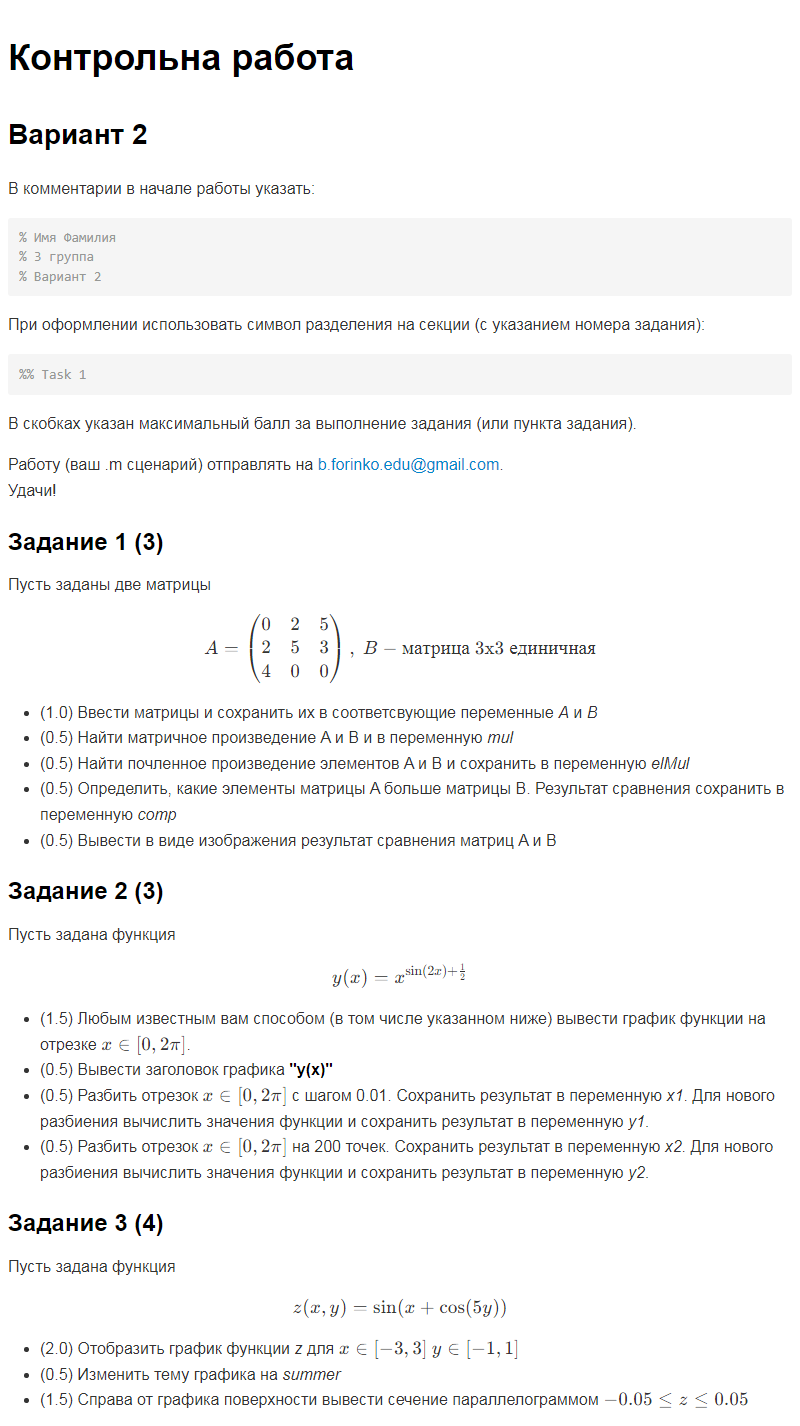
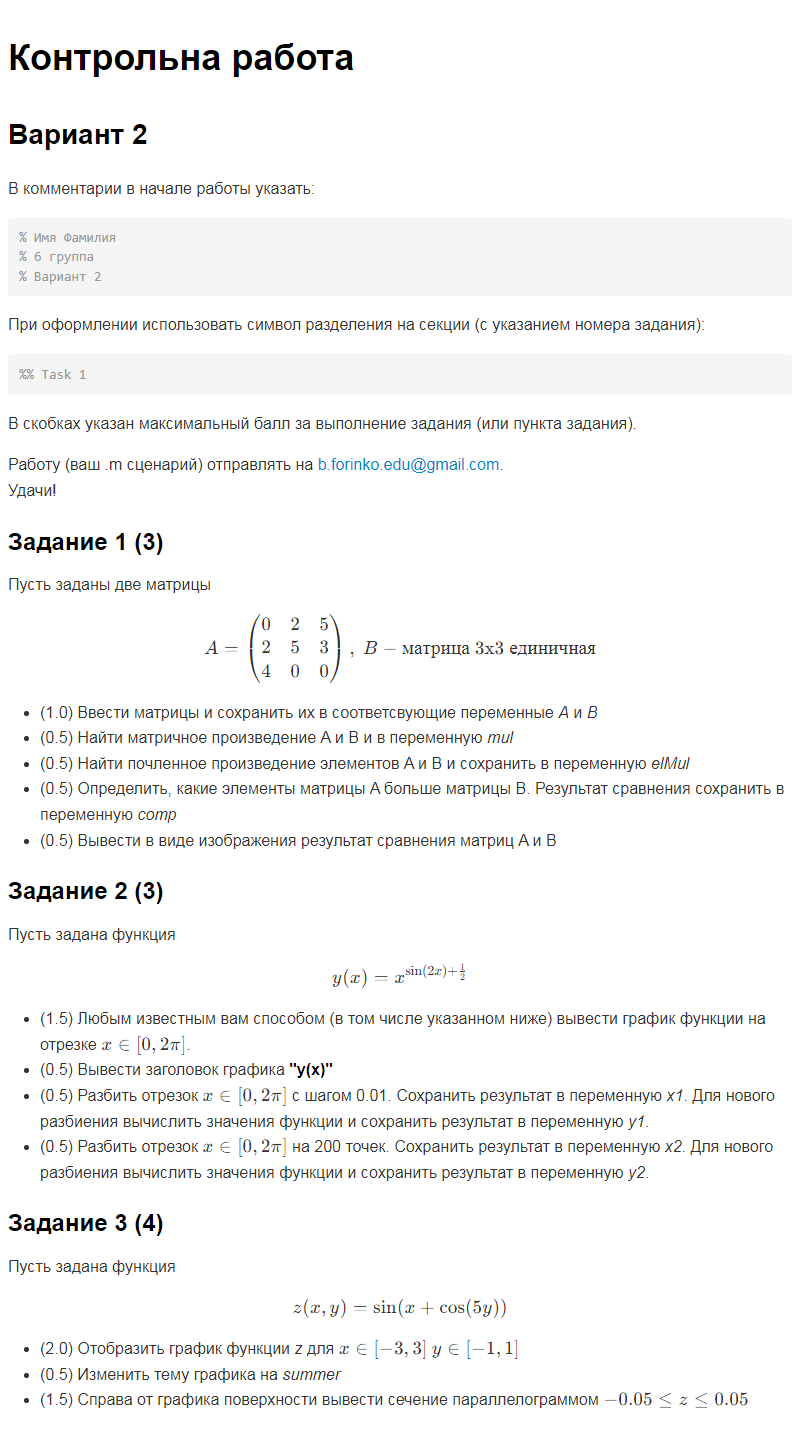
fix

diff --git a/KM.TW.06.01.md b/KM.TW.06.01.md
@@ -6,7 +6,7 @@
 
 ```matlab
 % Имя Фамилия
-% 3 группа
+% 6 группа
 % Вариант 1
 ```
 

diff --git a/KM.TW.06.02.md b/KM.TW.06.02.md
@@ -6,7 +6,7 @@
 
 ```matlab
 % Имя Фамилия
-% 3 группа
+% 6 группа
 % Вариант 2
 ```
 
